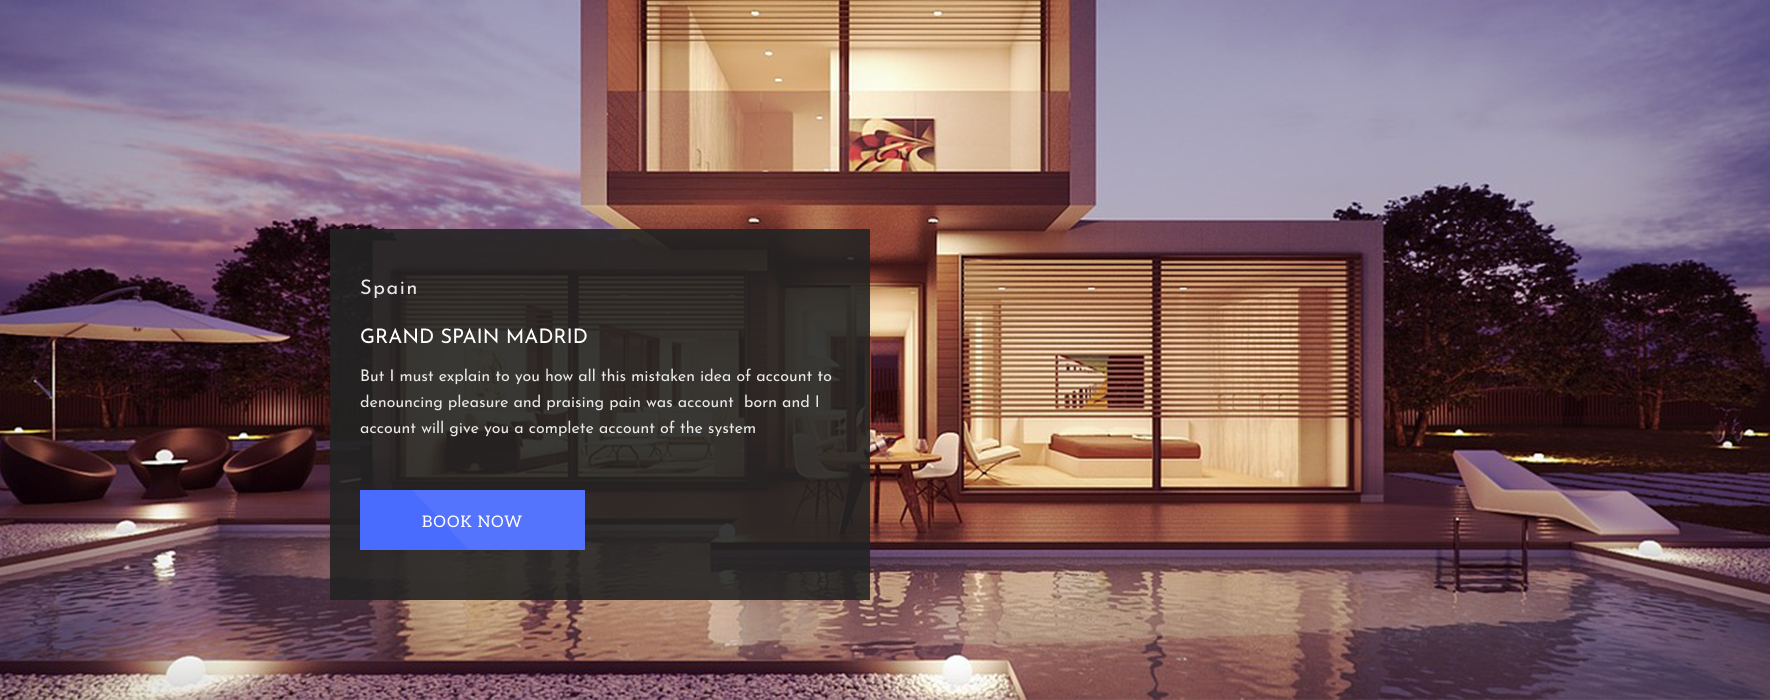
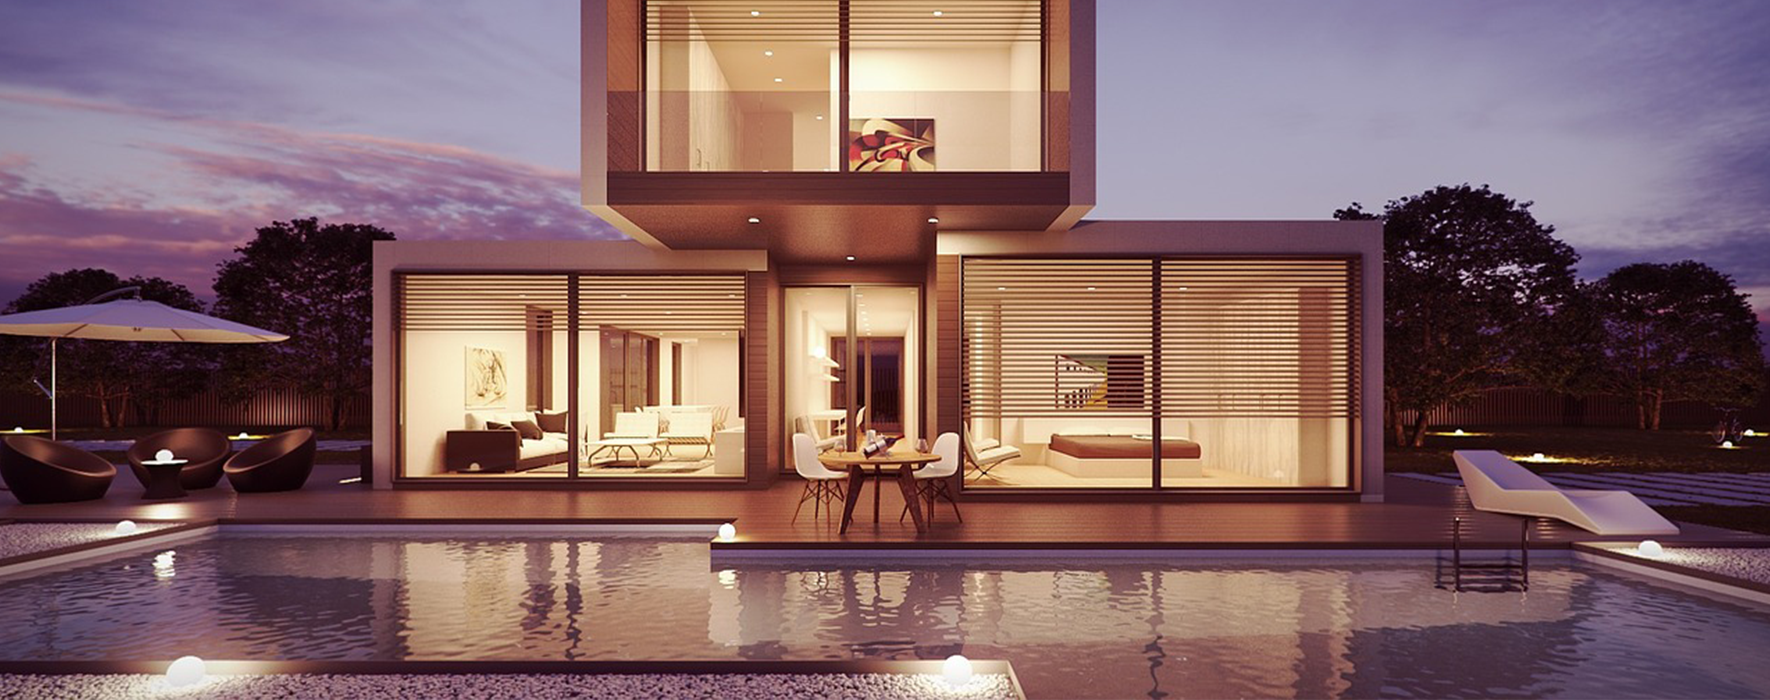
added booking sections

Changed region(s): [[0.1864, 0.33, 0.4972, 0.87]]

diff --git a/styles/booking.css b/styles/booking.css
@@ -1,0 +1,79 @@
+.booking-section1 {
+  background-image: url(/images/madridimg1.png);
+  min-height: 700px;
+  display: -webkit-box;
+  display: -ms-flexbox;
+  display: flex;
+  -webkit-box-align: center;
+      -ms-flex-align: center;
+          align-items: center;
+}
+
+.booking-card1 {
+  width: 543px;
+  height: 374px;
+  color: white;
+  background-color: black;
+  opacity: 0.9;
+  font-family: "Josefin Sans";
+  display: -webkit-box;
+  display: -ms-flexbox;
+  display: flex;
+  -webkit-box-orient: vertical;
+  -webkit-box-direction: normal;
+      -ms-flex-direction: column;
+          flex-direction: column;
+  -webkit-box-pack: space-evenly;
+      -ms-flex-pack: space-evenly;
+          justify-content: space-evenly;
+  padding: 30px;
+  margin-left: 330px;
+}
+
+.booking-section2 {
+  background-image: url(/images/madridimg2.png);
+  min-height: 700px;
+  display: -webkit-box;
+  display: -ms-flexbox;
+  display: flex;
+  -webkit-box-pack: end;
+      -ms-flex-pack: end;
+          justify-content: flex-end;
+  -webkit-box-align: center;
+      -ms-flex-align: center;
+          align-items: center;
+}
+
+.booking-card2 {
+  width: 543px;
+  height: 374px;
+  color: white;
+  background-color: black;
+  opacity: 0.9;
+  font-family: "Josefin Sans";
+  display: -webkit-box;
+  display: -ms-flexbox;
+  display: flex;
+  -webkit-box-orient: vertical;
+  -webkit-box-direction: normal;
+      -ms-flex-direction: column;
+          flex-direction: column;
+  -webkit-box-pack: space-evenly;
+      -ms-flex-pack: space-evenly;
+          justify-content: space-evenly;
+  padding: 30px;
+  margin-right: 330px;
+}
+
+.booking-btn {
+  width: 228px;
+  height: 63px;
+  background-color: #5474FD;
+  color: white;
+  font-family: "Aleo";
+  font-size: 16px;
+}
+
+.booking-btn:hover {
+  background-color: #96a8f8;
+}

diff --git a/index.html b/index.html
@@ -12,6 +12,7 @@
     <link rel="stylesheet" href="styles/nav.css">
     <link rel="stylesheet" href="styles/us.css">
     <link rel="stylesheet" href="styles/works.css">
+    <link rel="stylesheet" href="styles/booking.css">
     <title>Document</title>
 </head>
 <body>
@@ -61,6 +62,26 @@
             <div class="grid-box three"><img src="/images/book.png" alt="thumbs up icon"></div>
         </div>
     </div>
+    <div class="booking-section1">
+        <div class="booking-card1">
+            <h4>Spain</h4>
+            <h3>GRAND SPAIN MADRID</h3>
+            <p>But I must explain to you how all this mistaken idea of account to denouncing pleasure and praising pain was account  
+                born and I account will give you a complete account of the system</p>
+            <button class="booking-btn">Book Now</button> 
+        </div>
+    </div>
+
+    <div class="booking-section2">
+        <div class="booking-card2">
+            <h4>Spain</h4>
+            <h3>GRAND SPAIN MADRID</h3>
+            <p>But I must explain to you how all this mistaken idea of account to denouncing pleasure and praising pain was account  
+                born and I account will give you a complete account of the system</p>
+            <button class="booking-btn">Book Now</button> 
+        </div>
+    </div>
+
 
 
 </body>

diff --git a/styles/booking.scss b/styles/booking.scss
@@ -1,0 +1,58 @@
+.booking-section1 {
+    background-image: url(/images/madridimg1.png);
+    min-height: 700px;
+    display: flex;
+    align-items: center;
+}
+
+.booking-card1 {
+    width: 543px;
+    height: 374px;
+    color: white;
+    background-color: black;
+    opacity: 0.9;
+    font-family: "Josefin Sans";
+    display: flex;
+    flex-direction: column;
+    justify-content: space-evenly;
+    padding: 30px;
+    margin-left: 330px;
+
+}
+
+.booking-section2 {
+    background-image: url(/images/madridimg2.png);
+    min-height: 700px;
+    display: flex;
+    justify-content: flex-end;
+    align-items: center;
+}
+
+.booking-card2 {
+    width: 543px;
+    height: 374px;
+    color: white;
+    background-color: black;
+    opacity: 0.9;
+    font-family: "Josefin Sans";
+    display: flex;
+    flex-direction: column;
+    justify-content: space-evenly;
+    padding: 30px;
+    margin-right: 330px;
+
+}
+
+
+.booking-btn {
+    width: 228px;
+    height: 63px;
+    background-color: #5474FD;
+    color: white;
+    font-family: "Aleo";
+    font-size: 16px;
+}
+
+.booking-btn:hover {
+    background-color: #96a8f8;
+}

diff --git a/styles/hero.css b/styles/hero.css
@@ -65,3 +65,7 @@ input {
   display: -ms-flexbox;
   display: flex;
 }
+
+.search-btn:hover {
+  background-color: #96a8f8;
+}

diff --git a/styles/hero.scss b/styles/hero.scss
@@ -47,3 +47,7 @@ input {
 .hero-scroll {
     display: flex;
 }
+
+.search-btn:hover {
+    background-color: #96a8f8;
+}

diff --git a/styles/us.scss b/styles/us.scss
@@ -43,3 +43,7 @@
 .img2 {
     margin-top: 10px;
 }
+
+.us-btn:hover {
+    background-color: #96a8f8;
+}

diff --git a/styles/us.css b/styles/us.css
@@ -52,3 +52,7 @@
 .img2 {
   margin-top: 10px;
 }
+
+.us-btn:hover {
+  background-color: #96a8f8;
+}
